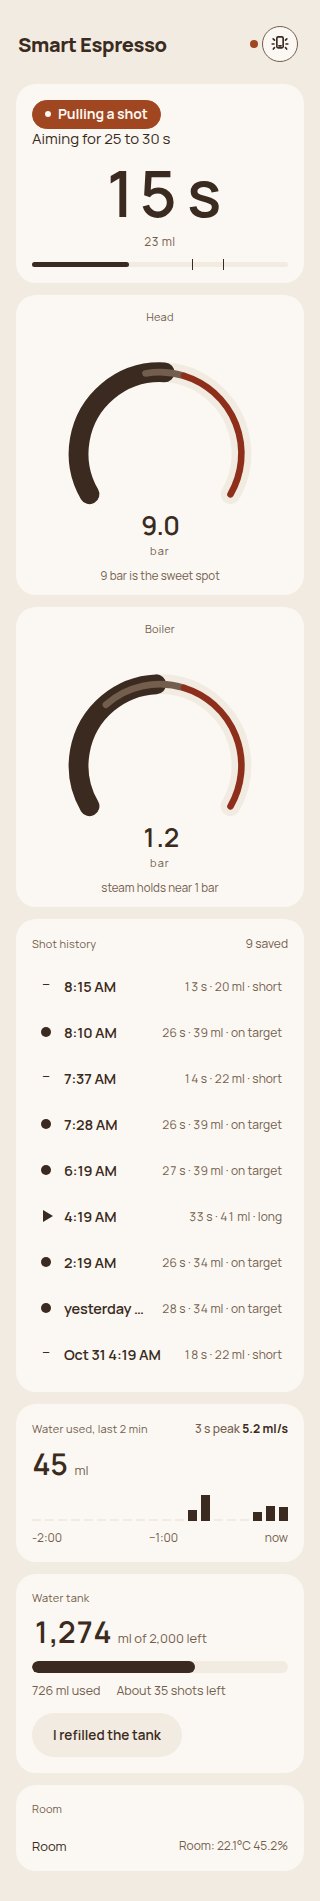
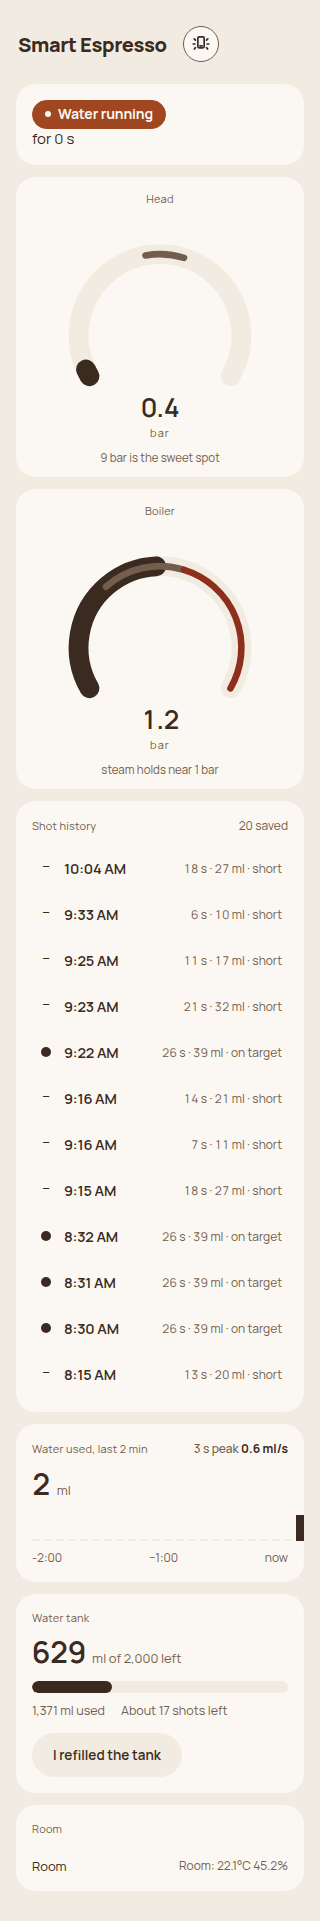
fix: hide the status dot with the today line
Below 375 the tally is already hidden, and the dot was left beside
the title. It hides at the same breakpoint. Shell cache is espresso-shell-v81.

diff --git a/smart_espresso/web/static/index.html b/smart_espresso/web/static/index.html
@@ -239,7 +239,8 @@
   /* Below 375 the today line would clip the title. The dot and the
      wake control stay; the tally comes back at 375. */
   @media (max-width: 374px) {
-    header .tagline { display: none !important; }
+    header .tagline,
+    header .conn { display: none !important; }
   }
 
   /* The connection word stays for the status role. The header shows the dot. */

diff --git a/smart_espresso/web/static/sw.js b/smart_espresso/web/static/sw.js
@@ -2,7 +2,7 @@
 // still opens (slightly stale, clearly marked so by the page itself) when
 // the machine's server hiccups. Sensor data is never cached: /api/* always
 // goes to the network.
-const CACHE = 'espresso-shell-v74';
+const CACHE = 'espresso-shell-v81';
 const SHELL = [
   '/',
   '/dashboard_logic.js',

diff --git a/smart_espresso/test/test_dashboard_contrast.py b/smart_espresso/test/test_dashboard_contrast.py
@@ -158,7 +158,7 @@ class TestDashboardContrast:
         assert "fonts.googleapis.com" not in self.worker
         assert "fonts.gstatic.com" not in self.worker
         assert "/fonts/manrope.woff2" in self.worker
-        assert "espresso-shell-v74" in self.worker
+        assert "espresso-shell-v81" in self.worker
         font = PAGE.parent / "fonts" / "manrope.woff2"
         assert font.is_file()
         assert font.read_bytes()[:4] == b"wOF2"

diff --git a/smart_espresso/test/test_dashboard_logic.py b/smart_espresso/test/test_dashboard_logic.py
@@ -575,6 +575,7 @@ class TestPhoneHeader:
         narrow = re.search(r"@media \(max-width: 374px\)\s*\{([^}]*)\}", self.page)
         assert narrow is not None
         assert "header .tagline" in narrow.group(1)
+        assert "header .conn" in narrow.group(1)
         assert "display: none" in narrow.group(1)
         assert "todayLine(" in self.page
 
